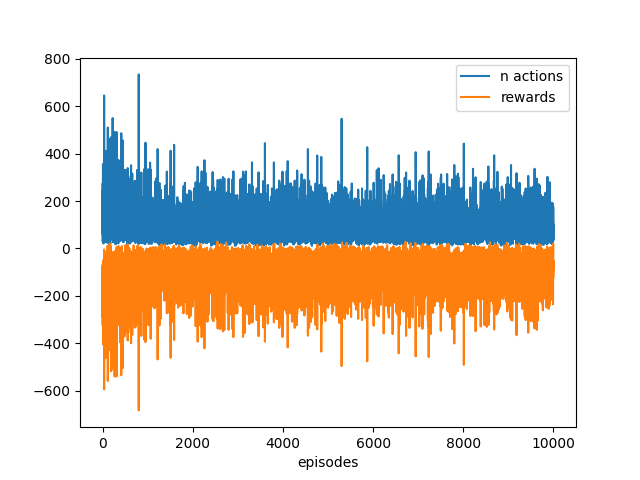
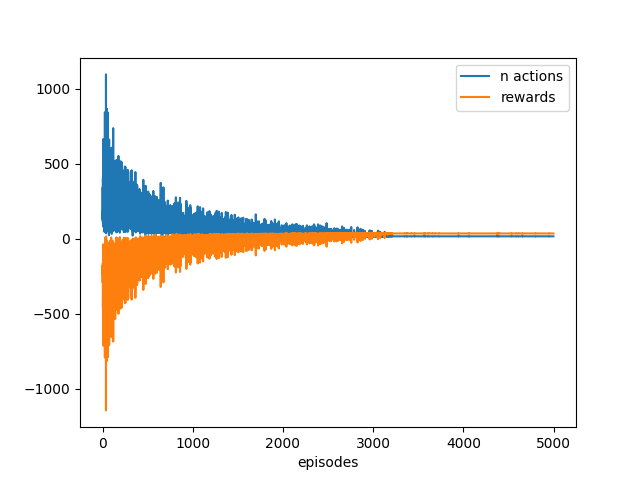
Epsilon-greedy function fixed. Sarsa and qlearning hyperparameters set (same). Figures generated.

diff --git a/2_reinforcement_learning/GridWorld.py b/2_reinforcement_learning/GridWorld.py
@@ -188,11 +188,7 @@ class GridWorld:
                 
             cell.v_pi_mean 
 
-    # def init_q_matrix(self):
-    #     q_matrix = []
-    #     for s in states
-
-    def sarsa(self, episodes=10000, lr=0.1, discount=1, epsilon=0.3, epsilon_decay=0.01):
+    def sarsa(self, episodes=4000, lr=0.005, discount=1, epsilon=0.3, epsilon_decay=0.001):
         'SARSA in combination with greedification to search for an optimal policy'
 
         def next_action_state(s, a):
@@ -213,8 +209,8 @@ class GridWorld:
             # choose action based on policy (e-greedy)
             a = self.e_greedy(s, epsilon)
 
-            # incremently decrease learning-rate per episode until threshold (0.1) is reached
-            if epsilon > 0.1:
+            # incremently decrease learning-rate per episode
+            if epsilon > epsilon_decay:
                 epsilon -= epsilon_decay
 
             actions = 0
@@ -222,39 +218,91 @@ class GridWorld:
 
             # for each step in episode (until done?)
             while True:
+                # get new state and new action
                 s_prime, reward = next_action_state(s, a)
                 a_prime = self.e_greedy(s_prime, epsilon)
-
                 # update algorithm
                 s.q[a] = s.q[a] + lr*(reward + discount*(s_prime.q[a_prime]) - s.q[a])
-
+                # replace old state and action with new (prime) state and action
                 s = s_prime
                 a = a_prime
-
+                # append actions and rewards (for analytics)
                 actions += 1
                 rewards += reward
-                
                 # repeat until reaching a terminal state
                 if s.absorbing:
                     break
 
+            # append to lists
             actions_per_episode.append(actions)
             rewards_per_episode.append(rewards)
 
-        # print current gridworld
+        # print gridworld with the preferred policies
         self.print_grid(s.pos, to_show='q')
     
         return actions_per_episode, rewards_per_episode
 
-    # def sarsa(self, s, alpha=0.1, discount=1):
-    #     'SARSA in combination with greedification to search for an optimal policy'
+
+    def qlearning(self, episodes=4000, lr=0.005, discount=1, epsilon=0.3, epsilon_decay=0.001):
+        'Q-learning to search for an optimal policy'
+
+        def next_action_state(s, a):
+            # next state determined by greedy policy (e-greedy)
+            new_pos = self.move_agent(a, s.pos)
+            s_prime = self.grid[new_pos[0]][new_pos[1]]
+
+            return s_prime, s_prime.reward
+            
+        actions_per_episode = []
+        rewards_per_episode = []
+        
+        # for each episode
+        for ep in range(0, episodes):
+            # define starting state
+            s = self.grid[0][0]
+
+            # incremently decrease learning-rate per episode
+            if epsilon > epsilon_decay:
+                epsilon -= epsilon_decay
+
+            actions = 0
+            rewards = 0
+
+            # for each step in episode (until done?)
+            while True:
+                # choose action based on policy (e-greedy)
+                a = self.e_greedy(s, epsilon)
+                # get new state and reward from action
+                s_prime, reward = next_action_state(s, a)
+                # select action with maximum value (best direction)
+                best_direction = max(s_prime.q, key=lambda k: s_prime.q[k])
+                # update algorithm
+                s.q[a] = s.q[a] + lr*(reward + discount*s_prime.q[best_direction] - s.q[a])
+                # replace old state with new (prime) state
+                s = s_prime
+                # append actions and rewards (for analytics)
+                actions += 1
+                rewards += reward
+                # repeat until reaching a terminal state
+                if s.absorbing:
+                    break
+
+            # append to lists
+            actions_per_episode.append(actions)
+            rewards_per_episode.append(rewards)
+
+        # print gridworld with the preferred policies
+        self.print_grid(s.pos, to_show='q')
+    
+        return actions_per_episode, rewards_per_episode
 
 
-    def e_greedy(self, s, epsilon=0.1):
+
+    def e_greedy(self, s, epsilon):
         'epsilon-greedy policy returning either random or greedy, depending on rate'
 
         # if random float is smaller than epsilon, greedy (0 < e < 1)
-        if random.random() < epsilon:
+        if random.random() > epsilon:
             return max(s.q, key=lambda k: s.q[k])
         else:
             # use random policy

diff --git a/2_reinforcement_learning/Analytics.py b/2_reinforcement_learning/Analytics.py
@@ -1,6 +1,7 @@
 import matplotlib.pyplot as plt
 import numpy as np
 import seaborn as sns
+import pandas as pd
 
 class Analytics:
     def __init__(self, states):
@@ -20,10 +21,31 @@ class Analytics:
 
         print('Done')
 
-    def sarsa_lineplot(self, actions, rewards):
+    def temp_diff_lineplot(self, values, algorithm):
         'Show line plot with actions per step'
 
+        indexes = [i for i in range(len(values))]
+
+        sns.lineplot(x=indexes, y=values)
+
+        plt.xlabel('episodes')
+        plt.ylabel('actions')
+
+        plt.savefig('./2_reinforcement_learning/figs/'+algorithm+'_actions_per_episode.png')
+        plt.show()
+        plt.clf()
+
+        print(f"{algorithm}: actions after learning: {values[-1]}")
+
+
+
+    def temp_diff_lineplot_actions_rewards(self, actions, rewards, algorithm):
+        'Show line plot with actions/rewards per step'
+
         indexes = [i for i in range(len(actions))]
+
+        # df = pd.DataFrame({'index': indexes, 'actions': actions, 'rewards': rewards})
+        # grouped = df.groupby({x: x // 100 for x in range(len(df))})
 
         sns.lineplot(x=indexes, y=actions)
         sns.lineplot(x=indexes, y=rewards)
@@ -31,5 +53,29 @@ class Analytics:
         plt.xlabel('episodes')
         plt.legend(['n actions', 'rewards'])
 
-        plt.savefig('./2_reinforcement_learning/figs/sarsa_actions_rewards_per_episode.png')
+        plt.savefig('./2_reinforcement_learning/figs/'+algorithm+'_actions_rewards_per_episode.png')
         plt.show()
+        plt.clf()
+
+        print(f"actions after learning: {actions[-1]}\nMax total reward yield: {rewards[-1]}")
+
+
+    def compare_algorithms_lineplot(self, sarsa_actions, qlearning_actions, value_type):
+        'Show line plot with actions/rewards per step'
+
+        index = [i for i in range(len(max(sarsa_actions, qlearning_actions)))]
+        df = pd.DataFrame({'episodes': index, 'sarsa': sarsa_actions, 'qlearning': qlearning_actions})
+
+        _df = df.melt(id_vars='episodes', value_vars=['sarsa', 'qlearning'])
+        sns.lineplot(data=_df, x='episodes', y='value', hue='variable')
+
+        plt.xlabel('episodes')
+        plt.ylabel('num of actions')
+        plt.legend(['SARSA', 'Q-learning'])
+
+        plt.savefig('./2_reinforcement_learning/figs/'+value_type+'_actions_rewards_per_episode.png')
+        plt.show()
+        plt.clf()
+
+        print(f"SARSA: actions after learning - {sarsa_actions[-1]}")
+        print(f"Q-Learning: actions after learning - {qlearning_actions[-1]}")

diff --git a/2_reinforcement_learning/State.py b/2_reinforcement_learning/State.py
@@ -24,27 +24,34 @@ class State:
         if to_show == 'reward':
             cell = str(self.reward)
         elif to_show == 'q':
-            direction = max(self.q, key=lambda k: self.q[k])
-            # set print signs for readability
-            if direction == 'north':
-                sign = '^'
-            elif direction == 'south':
-                sign = 'v'
-            elif direction == 'east':
-                sign = '>'
-            elif direction == 'west':
-                sign = '<'
-                
-            cell = str(f"{sign} ({round(self.q[direction],2)})")
+            if not self.absorbing:
+                direction = max(self.q, key=lambda k: self.q[k])
+                # set print signs for readability
+                if direction == 'north':
+                    sign = '^'
+                elif direction == 'south':
+                    sign = 'v'
+                elif direction == 'east':
+                    sign = '>'
+                elif direction == 'west':
+                    sign = '<'
+                    
+                # cell = str(f"{sign}")
+                cell = str(f"{sign} ({format(self.q[direction], '.2f')})")
+
         elif to_show == 'v':
             cell = str(self.v_pi)
+
         # wall
         if not self.movable:
             cell = f"|\t|"
+
+        # terminal state
         elif self.absorbing:
-            cell = f"[{cell}]*"
+            cell = f"[ {self.reward} ]*"
 
         # agent is present
         if agent_present:
             cell = f"<{cell}>"
         return cell
+        

diff --git a/2_reinforcement_learning/Main.py b/2_reinforcement_learning/Main.py
@@ -28,18 +28,22 @@ agent = Agent(spawn)
 # creating grid world
 gw = GridWorld(agent, entities, dim)
 
+# Analytics class
+stats = Analytics(gw.grid)
 
 # Use Monte Carlo policy evaluation to compute the state value function v_pi(s) for the equiprobable policy pi
 # gw.montecarlo_rl(iterations=10000)
+# stats.show_heatmap(gw.grid)
 
-actions, rewards = gw.sarsa(episodes=10000)
-
-# Plot graphs and figures
-stats = Analytics(gw.grid)
-# stats.show_heatmap()
-
-stats.sarsa_lineplot(actions, rewards)
-
+# sarsa
+actions, rewards = gw.sarsa(episodes=5000)
+stats.temp_diff_lineplot(actions, algorithm='sarsa')
+stats.temp_diff_lineplot_actions_rewards(actions, rewards, algorithm='sarsa')
+# stats.temp_diff_lineplot(rewards, algorithm='sarsa')
+# qlearning
+actions, rewards = gw.qlearning(episodes=5000)
+stats.temp_diff_lineplot(actions, algorithm='qlearning')
+stats.temp_diff_lineplot_actions_rewards(actions, rewards, algorithm='qlearning')
 
 
 # manual control of agent (for testing)
